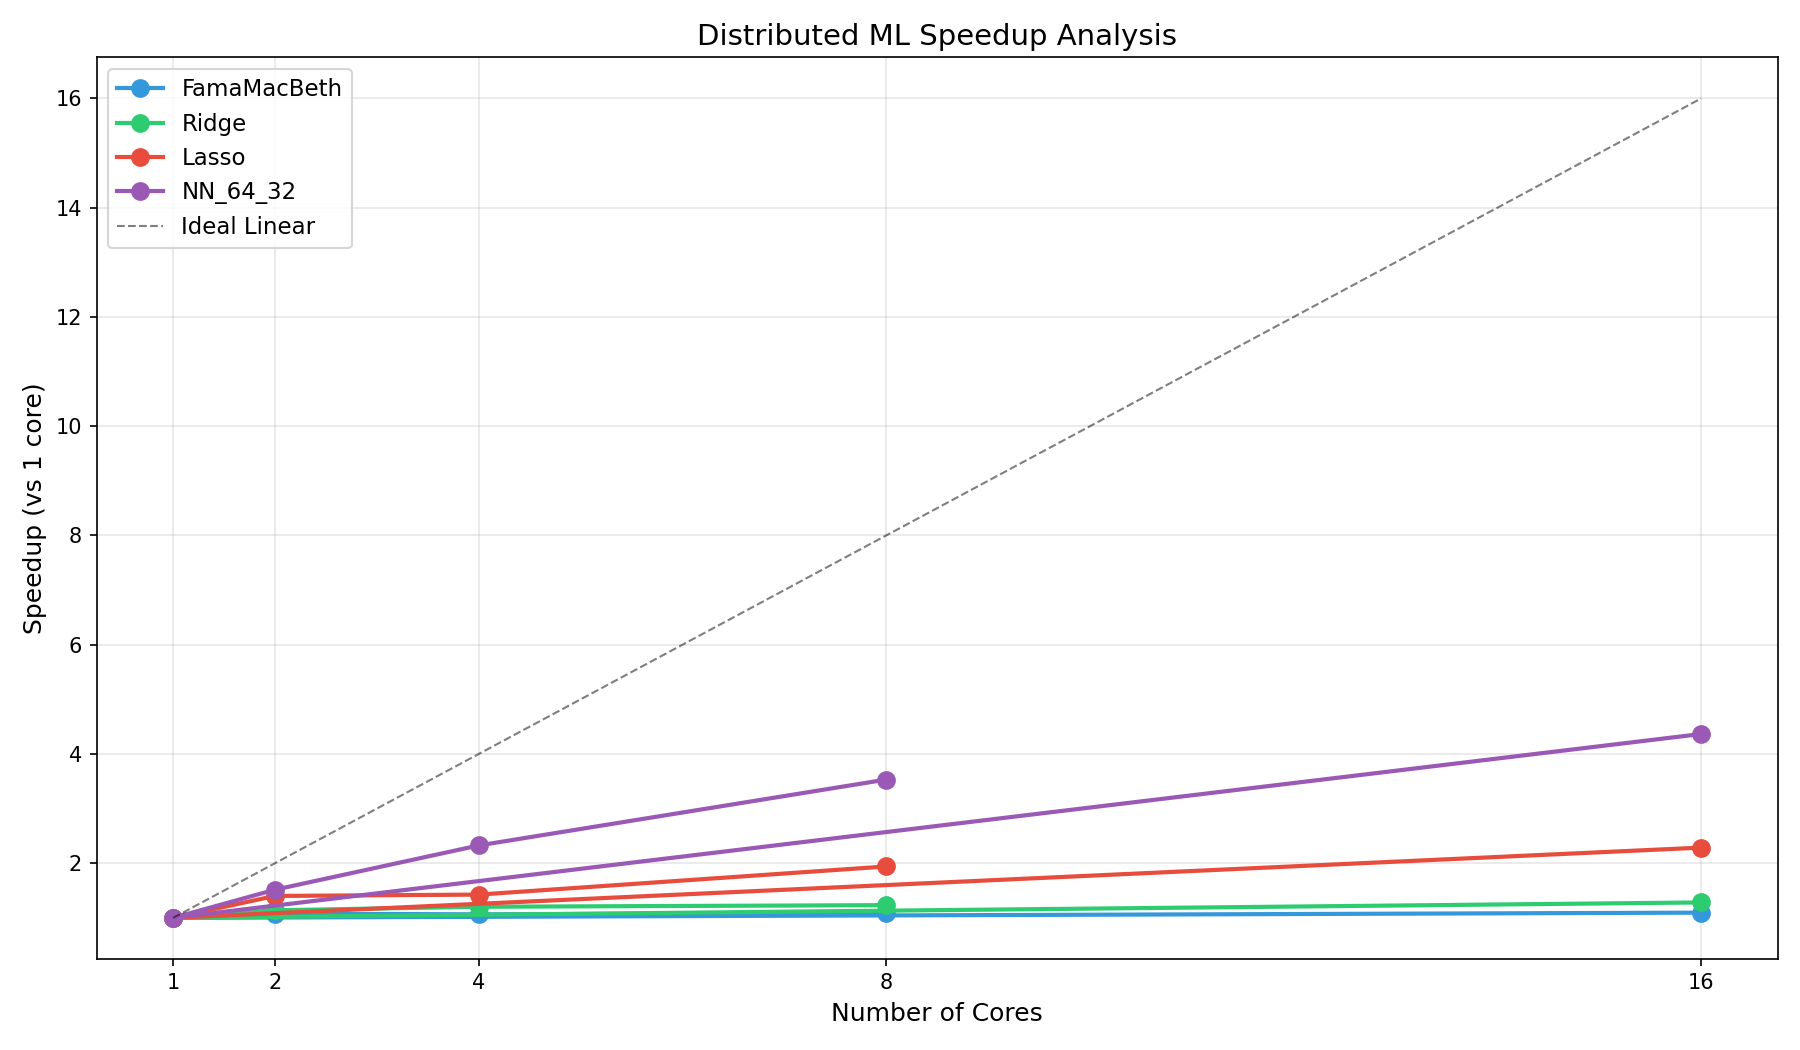
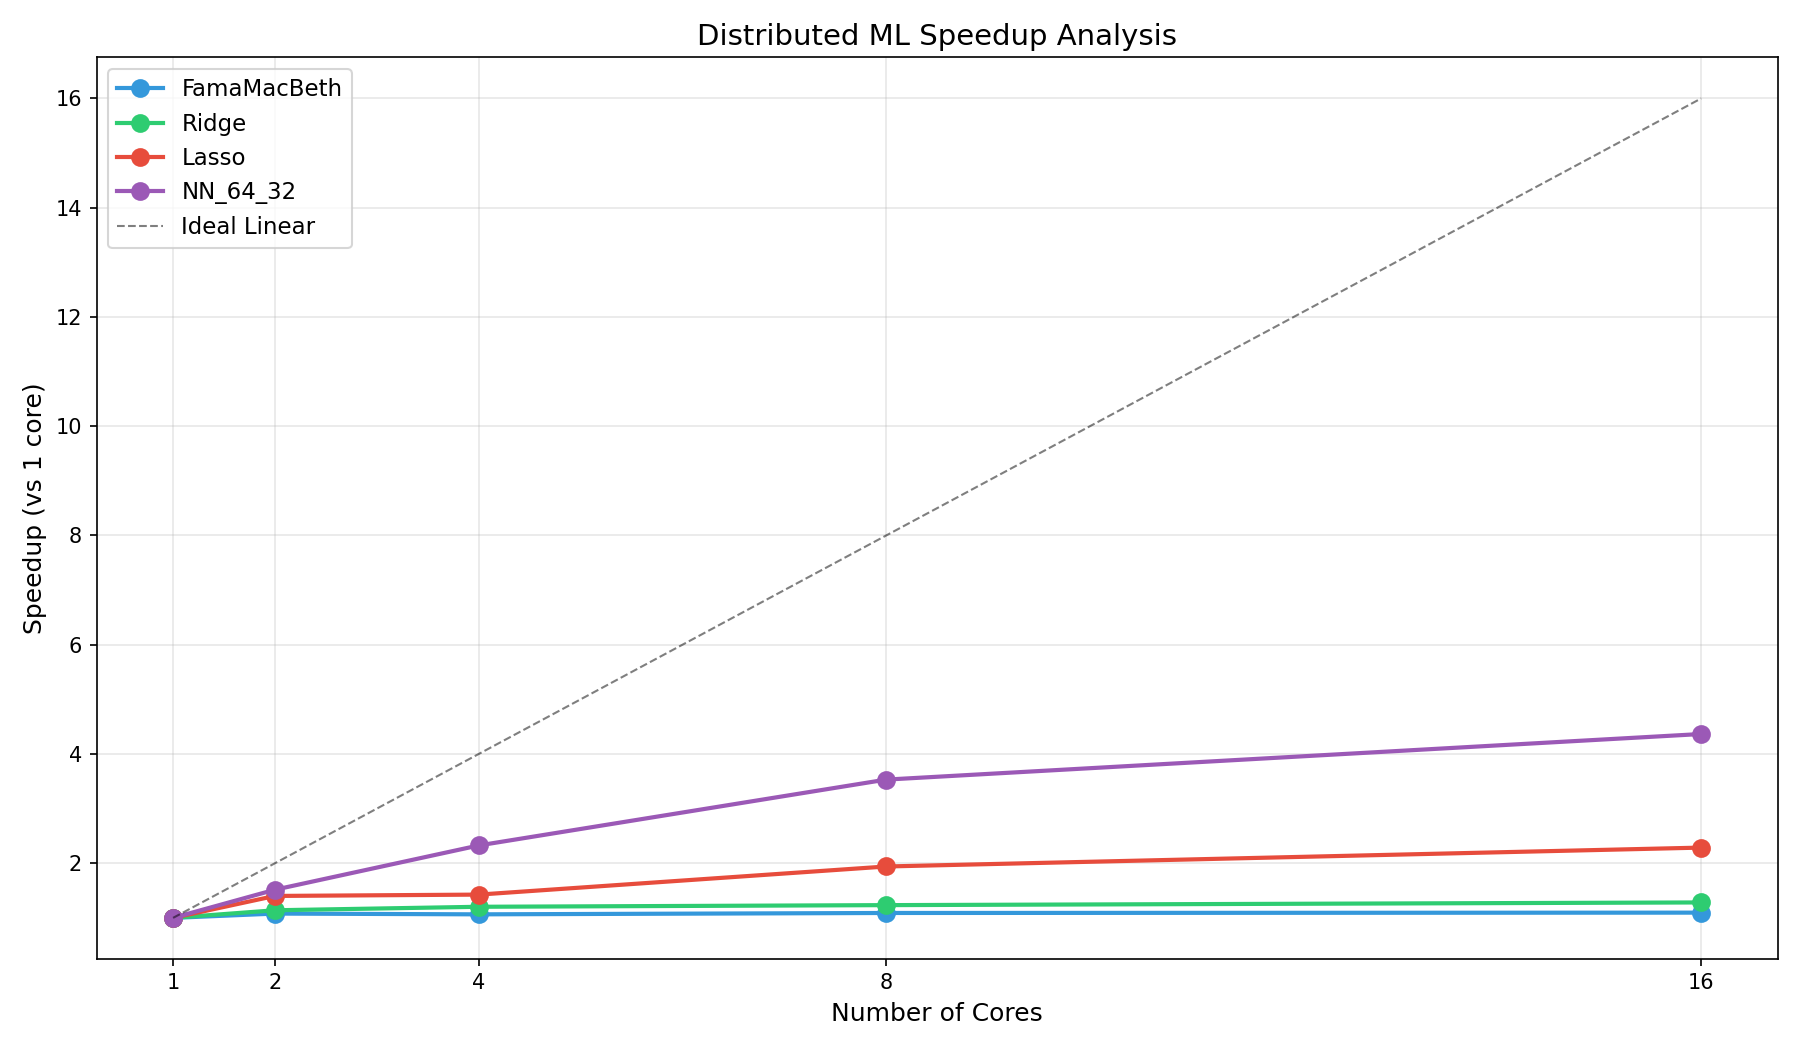
fixing speedup figures

Changed region(s): [[0.0933, 0.7314, 0.9333, 0.8838], [0.6222, 0.701, 0.9333, 0.7619]]

diff --git a/scripts/14_spark_speedup.py b/scripts/14_spark_speedup.py
@@ -47,7 +47,7 @@ print(pivot.to_string(float_format='{:.2f}'.format))
 fig, ax = plt.subplots(figsize=(12, 7))
 colors = {'FamaMacBeth': '#3498db', 'Ridge': '#2ecc71', 'Lasso': '#e74c3c', 'NN_64_32': '#9b59b6'}
 for model in models:
-    model_data = speedup_df[speedup_df['Model'] == model]
+    model_data = speedup_df[speedup_df['Model'] == model].sort_values('Cores')
     ax.plot(model_data['Cores'], model_data['Speedup'], 'o-', label=model, linewidth=2, markersize=8, color=colors.get(model, 'gray'))
 ax.plot(core_counts, core_counts, 'k--', linewidth=1, label='Ideal Linear', alpha=0.5)
 ax.set_xlabel('Number of Cores', fontsize=12)
@@ -63,7 +63,7 @@ plt.close()
 
 fig, ax = plt.subplots(figsize=(12, 7))
 for model in models:
-    model_data = speedup_df[speedup_df['Model'] == model]
+    model_data = speedup_df[speedup_df['Model'] == model].sort_values('Cores')
     ax.plot(model_data['Cores'], model_data['Time_sec'], 'o-', label=model, linewidth=2, markersize=8, color=colors.get(model, 'gray'))
 ax.set_xlabel('Number of Cores', fontsize=12)
 ax.set_ylabel('Time (seconds)', fontsize=12)
